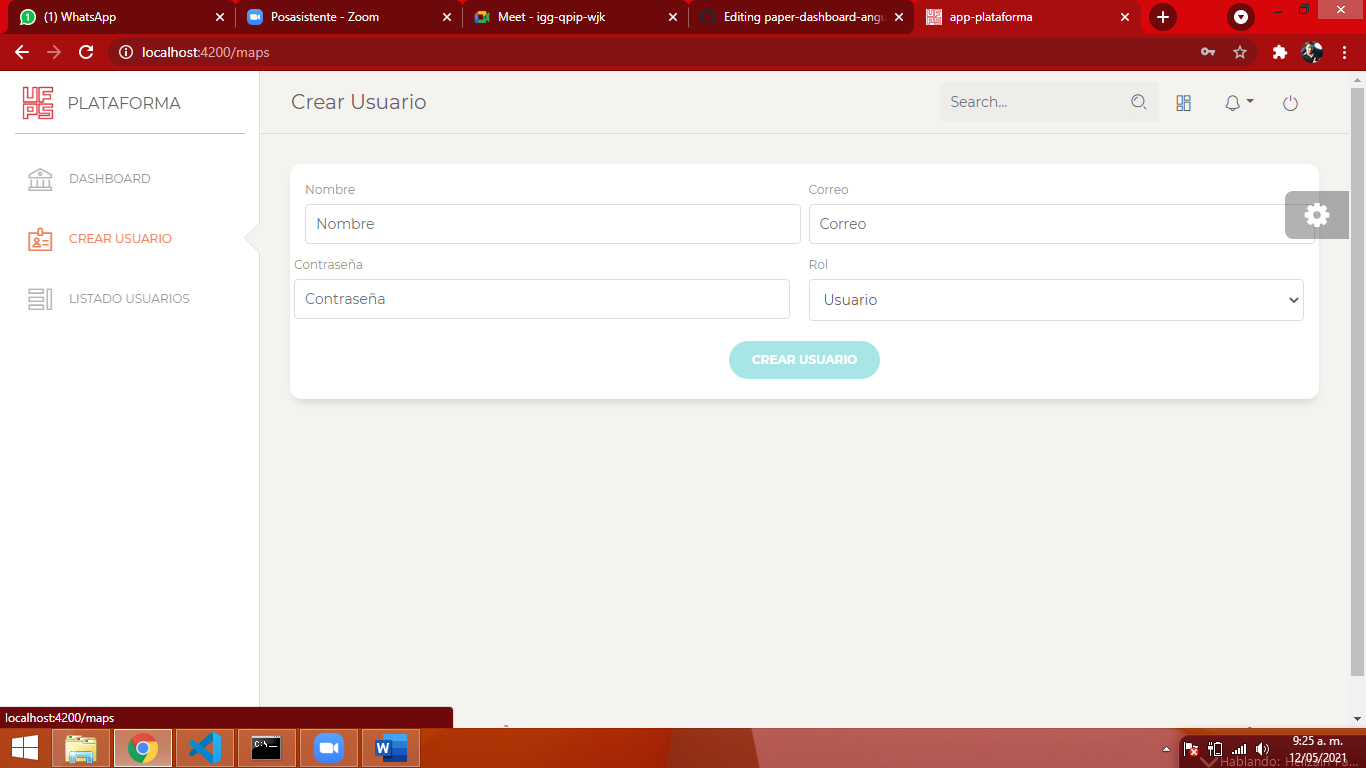
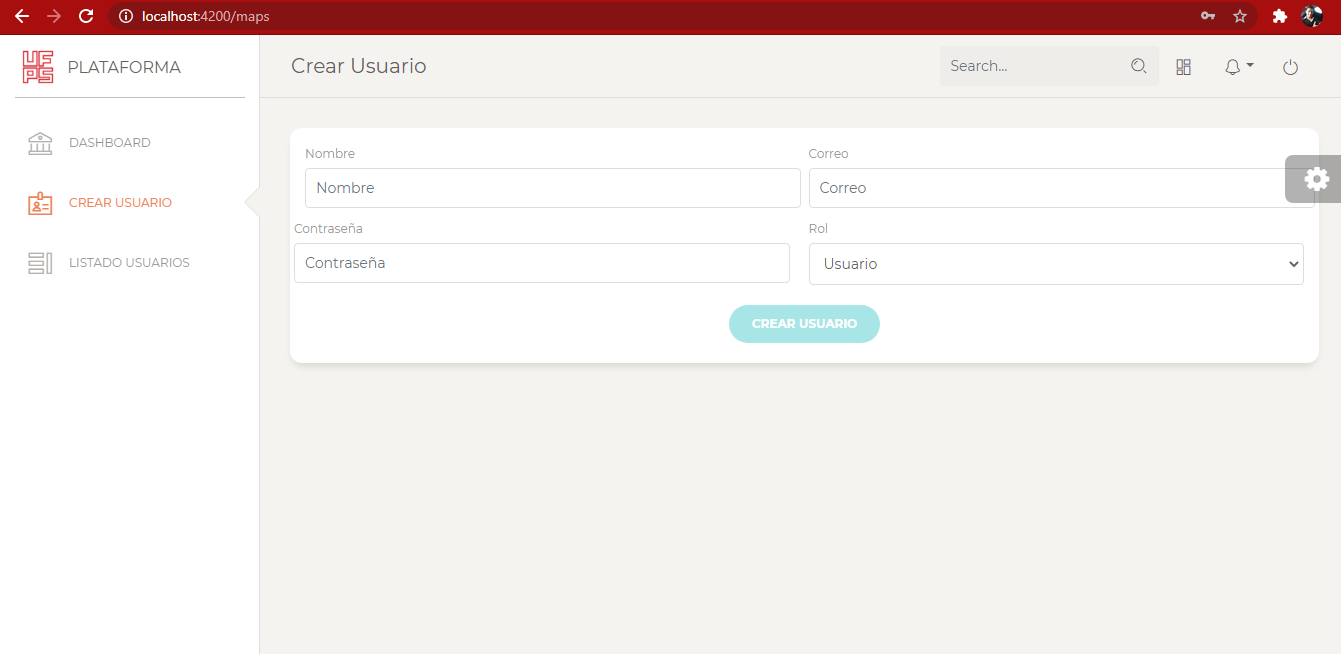
terminado readmi

diff --git a/README.md b/README.md
@@ -28,17 +28,15 @@ Paper Dashboard Angular is built using the same design language as [Paper Kit](h
 
 [<img src="https://s3.amazonaws.com/creativetim_bucket/github/angular.png" width="60" height="60" />](https://www.creative-tim.com/product/paper-dashboard-angular)
 
-| Angular                                                                                                                                                                                |
-| -------------------------------------------------------------------------------------------------------------------------------------------------------------------------------------- |
-| [![Paper Dashboard Angular](https://s3.amazonaws.com/creativetim_bucket/products/58/thumb/opt_pd_angular_thumbnail.jpg)](https://www.creative-tim.com/product/paper-dashboard-angular) |
+| Angular                                                               |
+| --------------------------------------------------------------------- |
+| [![Paper Dashboard Angular](src/assets/img/capturas/registrar.png)]() |
 
 ## Demo
 
-| Dashboard                                                                                 | Crear Usuario                                                                                                                                                                                                               | Listado Usuarios                                                                                                                                                                                               |
-| ----------------------------------------------------------------------------------------- | --------------------------------------------------------------------------------------------------------------------------------------------------------------------------------------------------------------------------- | -------------------------------------------------------------------------------------------------------------------------------------------------------------------------------------------------------------- |
-| [![Start page](src/)](https://demos.creative-tim.com/paper-dashboard-angular/#/dashboard) | [![User profile page](https://raw.githubusercontent.com/creativetimofficial/public-assets/master/paper-dashboard-angular/user-profile.png?raw=true)](https://demos.creative-tim.com/paper-dashboard-angular/#/user-profile) | [![Tables page ](https://raw.githubusercontent.com/creativetimofficial/public-assets/master/paper-dashboard-angular/tables.png?raw=true)](https://demos.creative-tim.com/paper-dashboard-angular/#/table-list) |
-
-[View More](https://demos.creative-tim.com/paper-dashboard-angular/#/dashboard).
+| Dashboard                                           | Crear Usuario                                                      | Listado Usuarios                                               |
+| --------------------------------------------------- | ------------------------------------------------------------------ | -------------------------------------------------------------- |
+| [![Start page](src/assets/img/capturas/img1.png)]() | [![User profile page](src/assets/img/capturas/crearUsuario.png)]() | [![Tables page ](src/assets/img/capturas/listaUsuarios.png)]() |
 
 ## Quick start
 
@@ -77,6 +75,21 @@ paper-dashboard-angular
 ├── protractor.conf.js
 ├── src
 │   ├── app
+│   │   ├── auth
+│   │   │   ├── login
+│   │   │   │   ├── login.component.html
+│   │   │   │   └── login.component.ts
+│   │   │   ├── register
+│   │   │       ├── register.component.html
+│   │   │       └── register.component.ts
+│   │   ├── guards
+│   │   │     ├── private.guard.ts
+│   │   │     └── public.guard.ts
+│   │   ├── interceptors
+│   │   │     ├── interceptor.service.ts
+│   │   │     
+│   │   │      
+│   │   │  
 │   │   ├── app.component.css
 │   │   ├── app.component.html
 │   │   ├── app.component.spec.ts
